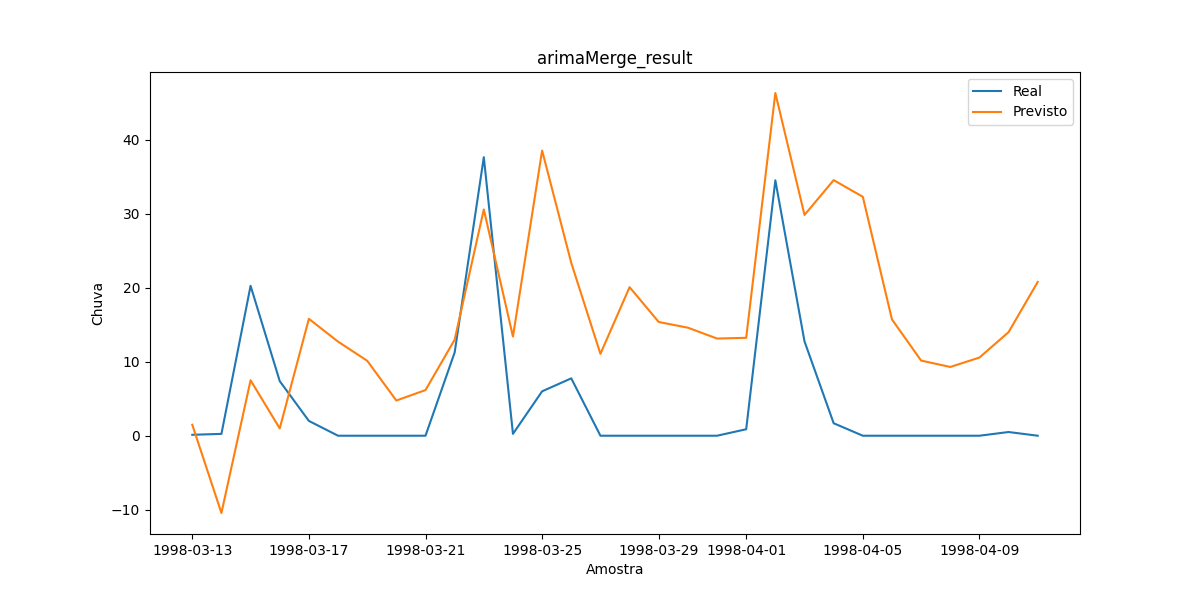
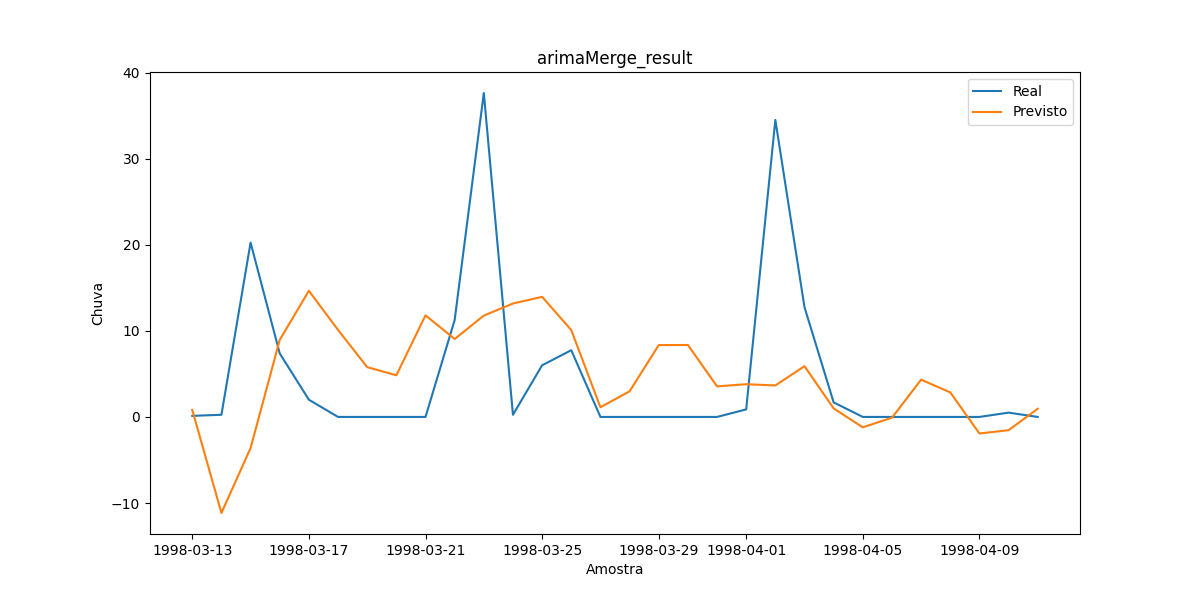
refactor

diff --git a/utils/utils.py b/utils/utils.py
@@ -36,22 +36,15 @@ def calcular_erros(logger, dadoReal, dadoPrevisao, thr_mm=1.0):
     denom = TP + FP + FN
     csi = (TP / denom) if denom > 0 else np.nan
 
-    obs_rain  = y_true >= 0
-    pred_rain = y_pred >= 0
 
-    TPZERO = int(np.sum(pred_rain & obs_rain))  # previu chuva e choveu
-    FPZERO = int(np.sum(pred_rain & ~obs_rain)) # previu chuva e NÃO choveu
-    FNZERO = int(np.sum(~pred_rain & obs_rain)) # NÃO previu chuva e choveu
-    denomZERO = TPZERO + FPZERO + FNZERO
-    csiZero = (TPZERO / denomZERO) if denomZERO > 0 else np.nan
+
 
     # logs
     logger.info(f"RMSE: {rmse:.4f}")
     logger.info(f"MSE : {mse:.4f}")
     logger.info(f"MAE : {mae:.4f}")
     logger.info(f"CSI (thr={thr_mm} mm): {csi:.4f}  [TP={TP}, FP={FP}, FN={FN}]")
-    logger.info(f"CSI ZERO (thr=0 mm): {csiZero:.4f}  [TP={TPZERO}, FP={FPZERO}, FN={FNZERO}]")
-    return rmse, mse , mae, csi, csiZero
+    return rmse, mse , mae, csi
 
 
 def _to_series_1d(y_pred, index=None, name="pred"):
@@ -267,7 +260,7 @@ def rodar_experimento_lstm(
     lookback=lookback
     )
     #y_pred_mm, y_true_mm = y_pred.squeeze(-1).detach().cpu().numpy(), y_test.squeeze(-1).detach().cpu().numpy()
-    rmse, mse , mae, csi, csiZero = calcular_erros(logger=logger, dadoPrevisao=y_pred_mm, dadoReal=y_true_mm)
+    rmse, mse , mae, csi = calcular_erros(logger=logger, dadoPrevisao=y_pred_mm, dadoReal=y_true_mm)
     logger.info(f"train_pred TRAIN mm min/max: {float(y_pred_mm.min())}, {float(y_pred_mm.max())}")
     logger.info(f"train_TRUE TRAIN mm min/max: {float(y_true_mm.min())}, {float(y_true_mm.max())}")
 
@@ -287,7 +280,7 @@ def rodar_experimento_lstm(
         lookback=lookback
     )
     #y_pred_mm, y_true_mm = y_pred.squeeze(-1).detach().cpu().numpy(), y_test.squeeze(-1).detach().cpu().numpy()
-    rmse, mse , mae, csi, csiZero = calcular_erros(logger=logger, dadoPrevisao=y_pred_mm, dadoReal=y_true_mm)
+    rmse, mse , mae, csi = calcular_erros(logger=logger, dadoPrevisao=y_pred_mm, dadoReal=y_true_mm)
     logger.info(f"y_pred mm min/max: {float(y_pred_mm.min())}, {float(y_pred_mm.max())}")
     logger.info(f"y_TRUE mm min/max: {float(y_true_mm.min())}, {float(y_true_mm.max())}")
 
@@ -310,7 +303,6 @@ def rodar_experimento_lstm(
     "mse": mse,
     "mae": mae,
     "csi": csi,
-    "CSIZERO": csiZero,
     "tempoTreinamento":tempoFinal,
     }
 
@@ -415,12 +407,12 @@ def rodar_experimento_bilstm(
     lookback=lookback
     )
     #y_pred_mm, y_true_mm = y_pred.squeeze(-1).detach().cpu().numpy(), y_test.squeeze(-1).detach().cpu().numpy()
-    rmse, mse , mae, csi, csiZero = calcular_erros(logger=logger, dadoPrevisao=y_pred_mm, dadoReal=y_true_mm)
+    rmse, mse , mae, csi = calcular_erros(logger=logger, dadoPrevisao=y_pred_mm, dadoReal=y_true_mm)
     logger.info(f"train_pred TRAIN mm min/max: {float(y_pred_mm.min())}, {float(y_pred_mm.max())}")
     logger.info(f"train_TRUE TRAIN mm min/max: {float(y_true_mm.min())}, {float(y_true_mm.max())}")
 
     logger.info(" Gerando gráficos...")
-    plot.gerar_plot_dois_eixo(eixo_x=y_true_mm, eixo_y=y_pred_mm, titulo=f"TRAIN - lstm{dataset}_lookback={lookback}_neuronios={hidden_dim}_camada={layer_dim}_lr={learning_rate}_droprate={drop_rate}", xlabel="Amostra", ylabel="Chuva", legenda=['Real', 'Previsto'])
+    plot.gerar_plot_dois_eixo(eixo_x=y_true_mm, eixo_y=y_pred_mm, titulo=f"TRAIN - BILSTM{dataset}_lookback={lookback}_neuronios={hidden_dim}_camada={layer_dim}_lr={learning_rate}_droprate={drop_rate}", xlabel="Amostra", ylabel="Chuva", legenda=['Real', 'Previsto'])
     logger.info(" Gráficos gerados...")
 
     logger.info(f"Calculando erro para parte de teste")
@@ -436,12 +428,12 @@ def rodar_experimento_bilstm(
         lookback=lookback
     )
     #y_pred_mm, y_true_mm = y_pred.squeeze(-1).detach().cpu().numpy(),  y_test.squeeze(-1).detach().cpu().numpy()
-    rmse, mse , mae, csi, csiZero = calcular_erros(logger=logger, dadoPrevisao=y_pred_mm, dadoReal=y_true_mm)
+    rmse, mse , mae, csi = calcular_erros(logger=logger, dadoPrevisao=y_pred_mm, dadoReal=y_true_mm)
     logger.info(f"y_pred mm min/max: {float(y_pred_mm.min())}, {float(y_pred_mm.max())}")
     logger.info(f"y_TRUE mm min/max: {float(y_true_mm.min())}, {float(y_true_mm.max())}")
 
     logger.info(" Gerando gráficos...")
-    plot.gerar_plot_dois_eixo(eixo_x=y_true_mm, eixo_y=y_pred_mm, titulo=f"lstm{dataset}_lookback={lookback}_neuronios={hidden_dim}_camada={layer_dim}_lr={learning_rate}_droprate={drop_rate}", xlabel="Amostra", ylabel="Chuva", legenda=['Real', 'Previsto'])
+    plot.gerar_plot_dois_eixo(eixo_x=y_true_mm, eixo_y=y_pred_mm, titulo=f"BILSTM{dataset}_lookback={lookback}_neuronios={hidden_dim}_camada={layer_dim}_lr={learning_rate}_droprate={drop_rate}", xlabel="Amostra", ylabel="Chuva", legenda=['Real', 'Previsto'])
     logger.info(" Gráficos gerados...")
     logger.info("=" * 90)
     logger.info("Execução finalizada com sucesso.")
@@ -458,6 +450,5 @@ def rodar_experimento_bilstm(
     "mse": mse,
     "mae": mae,
     "csi": csi,
-    "csiZERO": csiZero,
     "tempoTreinamento":tempoFinal,
     }

diff --git a/mergeDataset/arima_merge.py b/mergeDataset/arima_merge.py
@@ -102,10 +102,10 @@ inicio3 = time.time()
 logger.info("[FASE 3] Normalizando e criando sequências...")
 
 n_test = 30
-# scaler = MinMaxScaler().fit(timeseries.iloc[:-n_test])
-# ts_scaled = scaler.transform(timeseries).astype(np.float32)
-# ts_scaled = pd.DataFrame(ts_scaled, index=timeseries.index, columns=timeseries.columns)
-ts_scaled = timeseries
+scaler = MinMaxScaler().fit(timeseries.iloc[:-n_test])
+ts_scaled = scaler.transform(timeseries).astype(np.float32)
+ts_scaled = pd.DataFrame(ts_scaled, index=timeseries.index, columns=timeseries.columns)
+#ts_scaled = timeseries
 
 endog = ts_scaled['chuva'].astype('float64')
 #exog  = ts_scaled[colunas_normalizar].astype('float64')
@@ -167,16 +167,16 @@ y_pred = best_model.predict(
 
 train_size = len(timeseries) - len(y_pred)
 
-# y_pred_mm, testY_mm = util.desescalar_pred_generico(
-#     y_pred,
-#     scaler=scaler,
-#     ts_scaled=ts_scaled,
-#     timeseries=timeseries,
-#     target='chuva',
-#     start=train_size,
-#     index=endog_test.index
-# )
-y_pred_mm, testY_mm = y_pred, endog_test
+y_pred_mm, testY_mm = util.desescalar_pred_generico(
+    y_pred,
+    scaler=scaler,
+    ts_scaled=ts_scaled,
+    timeseries=timeseries,
+    target='chuva',
+    start=train_size,
+    index=endog_test.index
+)
+#y_pred_mm, testY_mm = y_pred, endog_test
 
 
 util.calcular_erros(logger=logger,

diff --git a/brDwgd/access_br_dwgd.py b/brDwgd/access_br_dwgd.py
@@ -46,8 +46,8 @@ def recuperar_dados_br_dwgd_com_area():
     # Selecionar essa coluna
     df = df[melhor_estacao_id].to_frame(name='chuva')
     
-    df = coletar_outras_informacoes_com_id("Tmax.npz", melhor_estacao_id, "Tmax", df)
-    df = coletar_outras_informacoes_com_id("Tmin.npz", melhor_estacao_id, "Tmin", df)
+    #df = coletar_outras_informacoes_com_id("Tmax.npz", melhor_estacao_id, "Tmax", df)
+    #df = coletar_outras_informacoes_com_id("Tmin.npz", melhor_estacao_id, "Tmin", df)
     #df = coletar_outras_informacoes_com_id("RH.npz", melhor_estacao_id, "RH", df)
     #df = coletar_outras_informacoes_com_id("Rs.npz", melhor_estacao_id, "Rs", df)
     #df = coletar_outras_informacoes_com_id("u2.npz", melhor_estacao_id, "u2", df)

diff --git a/mergeDataset/lstmTorch_merge.py b/mergeDataset/lstmTorch_merge.py
@@ -103,7 +103,7 @@ for exp in experimentos:
                 drop_rate     = exp["drop_rate"],
                 logger = logger,
                 dataset= "Merge",
-                n_epochs      = 2000,
+                n_epochs      = 1500,
                 n_test=n_test,
                 batch_size    = 32,
             )

diff --git a/brDwgd/bilstmTorch_br_dwgd.py b/brDwgd/bilstmTorch_br_dwgd.py
@@ -99,7 +99,7 @@ for exp in experimentos:
                 drop_rate     = exp["drop_rate"],
                 logger = logger,
                 dataset= "BRDWGD",
-                n_epochs      = 2000,
+                n_epochs      = 1500,
                 n_test=n_test,
                 batch_size    = 32,
             )

diff --git a/mergeDataset/bilstmTorch_merge.py b/mergeDataset/bilstmTorch_merge.py
@@ -99,7 +99,7 @@ for exp in experimentos:
                 drop_rate     = exp["drop_rate"],
                 logger = logger,
                 dataset= "Merge",
-                n_epochs      = 2000,
+                n_epochs      = 1500,
                 n_test=n_test,
                 batch_size    = 32,
             )

diff --git a/brDwgd/lstmBrDwgd.py b/brDwgd/lstmBrDwgd.py
@@ -101,7 +101,7 @@ for exp in experimentos:
             drop_rate     = exp["drop_rate"],
             logger = logger,
             dataset= "BRDWGD",
-            n_epochs      = 2000,
+            n_epochs      = 1500,
             n_test=n_test,
             batch_size    = 32,
         )
